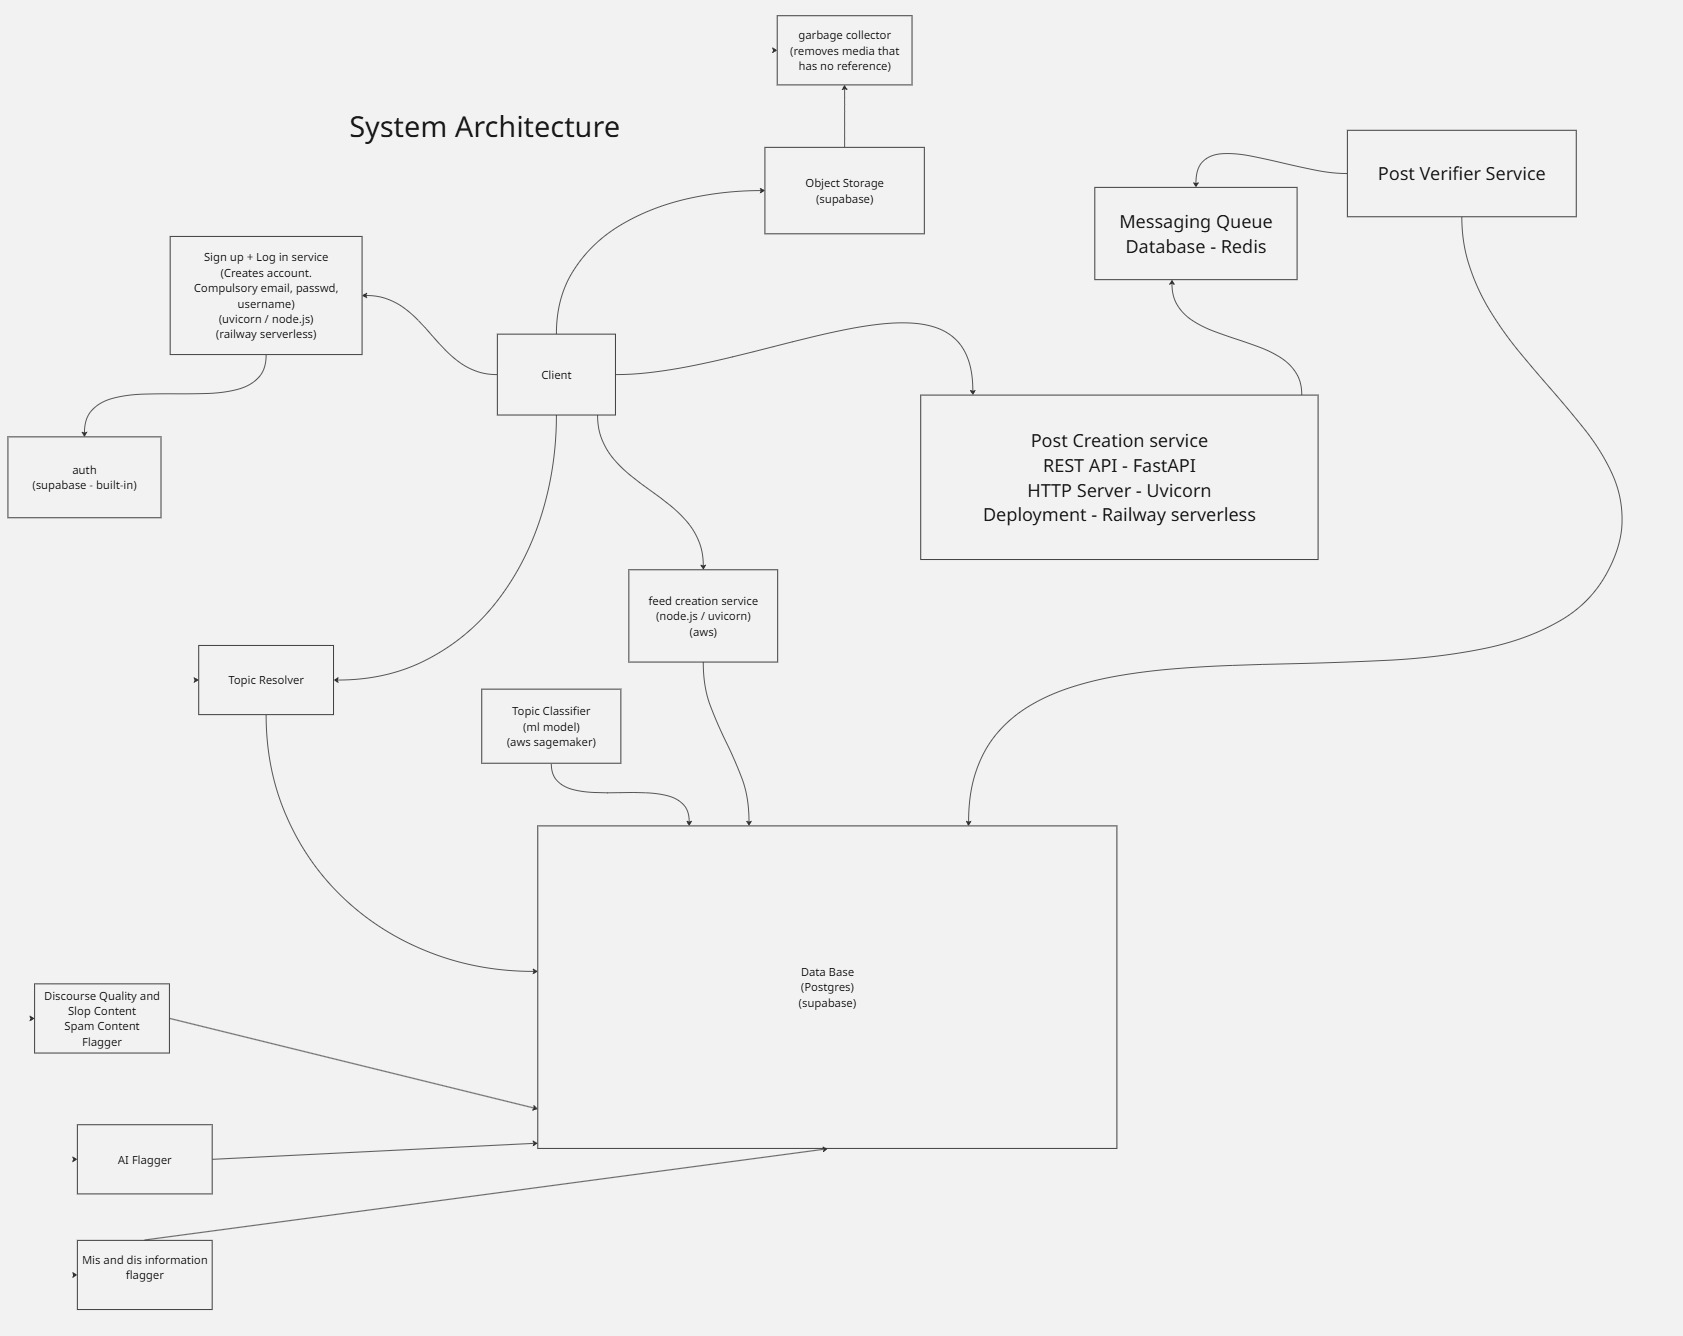
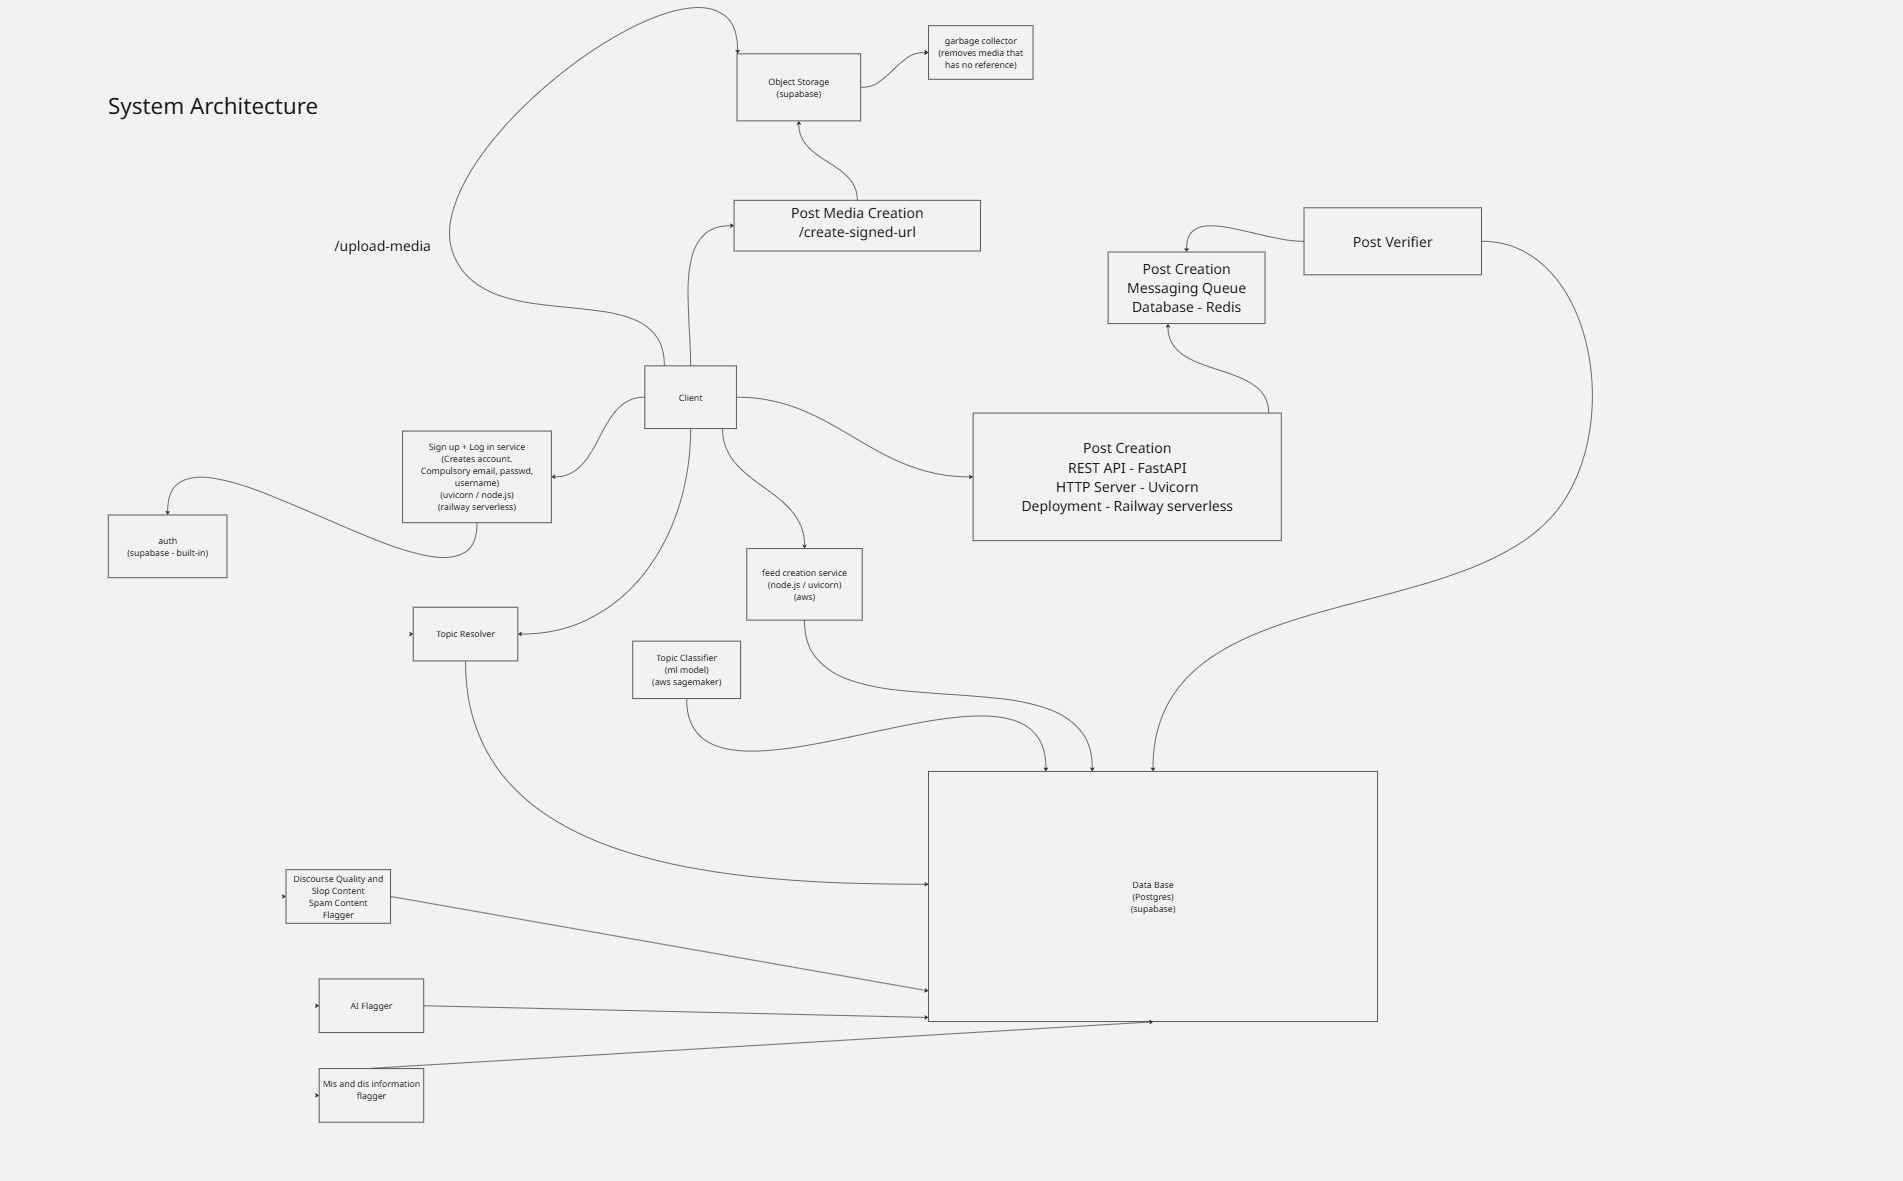
.

diff --git a/post_media_creation/server.py b/post_media_creation/server.py
@@ -15,7 +15,7 @@ app.include_router(router)
 if __name__ == "__main__":
         uvicorn.run(app, host="127.0.0.1", port=8000)
 
-        Better to use uvicorn run -  uvicorn server:app --host 127.0.0.1 --port 8000      
+        Better to use uvicorn run -  uvicorn server:app --host 127.0.0.1 --port 9000      
 
         # 127.0.0.1 is a local ip address. 
         # For production use 0.0.0.0 which will make it access any address in the production environment.
